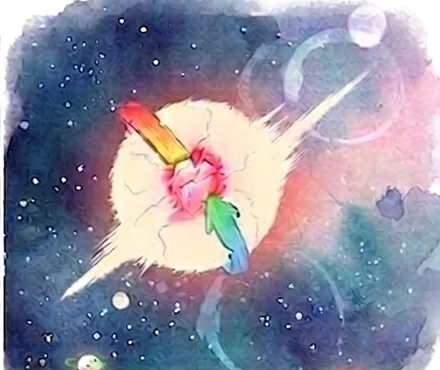
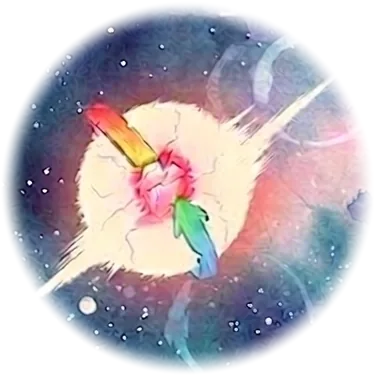
Round the rank badge back into hero.svg's rings
Rectangles among the concentric rings looked pasted on. The rim is now
feathered to a disc on a 3t^2-2t^3 curve rather than cut, so the wash still
dissolves instead of being stamped — the paper keying stays, and the two
passes together keep both the circular silhouette and the painted edge.

diff --git a/app/assets/css/omnia.css b/app/assets/css/omnia.css
@@ -264,22 +264,21 @@ button, .rail__link, .tabbar__link, .routine-card, .cal__day {
      read; the ceiling stops it outgrowing the banner on a tall window.
      Width follows the image, because these are irregular washes and forcing
      a common aspect ratio would visibly squash them. */
-  height: clamp(104px, 86%, 232px);
+  height: clamp(104px, 84%, 224px);
   /* Explicit, not shrink-to-fit. An absolutely positioned box with `width:
      auto` and only `left` set is clamped to the space remaining on that side
      — 25% of the banner — which is narrower than the artwork and leaves the
-     image overflowing its own button. The six washes differ in ratio by under
-     a percent, so one value covers them all and object-fit absorbs the rest. */
-  aspect-ratio: 440 / 371;
+     image overflowing its own button. */
+  aspect-ratio: 1;
   width: auto;
   padding: 0;
   border: 0;
   background: none;
-  border-radius: 12px;
+  border-radius: 50%;
   cursor: pointer;
   line-height: 0;
 }
-.rank__art { width: 100%; height: 100%; display: block; object-fit: contain; }
+.rank__art { width: 100%; height: 100%; display: block; }
 
 .rank:focus-visible {
   outline: 2px solid var(--color-primary);

diff --git a/app/index.html b/app/index.html
@@ -63,7 +63,7 @@
            finished, minor climbs by one every time a prompt changes something.
            See CLAUDE.md → Versioning; this element is the only place it lives. -->
       <p class="type-label">Daily core · 10 minutes
-        <span class="site-head__version" id="version">· v7.09</span>
+        <span class="site-head__version" id="version">· v7.10</span>
       </p>
       <button id="theme-toggle" class="theme-toggle" type="button"
               aria-label="Switch between light and dark">
@@ -82,7 +82,7 @@
              masthead should look as it always did, not show a stuck B. -->
         <button class="rank" id="rank" type="button" aria-expanded="false" hidden>
           <img class="rank__art" id="rank-art" src="assets/img/streak/b.webp"
-               alt="" width="440" height="372" decoding="async">
+               alt="" width="376" height="376" decoding="async">
         </button>
       </div>
       <p class="rank__detail" id="rank-detail" hidden></p>

diff --git a/tools/slice_streak_icons.py b/tools/slice_streak_icons.py
@@ -50,9 +50,15 @@ NEUTRAL_LO, NEUTRAL_HI = 10, 46
 #: full paper so the fill can travel through the soft edge of a wash.
 REACH = 70
 
-#: Longest edge of the written icon. Downscale only — the tiles are about
-#: 447px wide and upscaling a watercolour buys nothing but bytes.
-LONG_EDGE = 440
+#: Where the circular falloff begins, as a fraction of the radius. Everything
+#: inside is untouched; from here out to the rim the wash fades to nothing.
+#: A hard circle would stamp the watercolour flat, and no circle at all left
+#: the planets sitting as rectangles among hero.svg's concentric rings.
+FADE_FROM = 0.86
+
+#: Side of the written icon. Square, because the result is a disc. Downscale
+#: only — the tiles are about 376px tall and upscaling a wash buys only bytes.
+SIZE = 376
 QUALITY = 82
 
 
@@ -137,17 +143,43 @@ def cutout(img: Image.Image) -> Image.Image:
     out = rgb.convert("RGBA")
     out.putalpha(alpha)
 
-    # Crop to the paint. The tiles carry uneven margins of blank sheet, and
-    # keeping them would make one planet float higher in the banner than the
-    # next for no reason anybody could see.
-    box = out.getbbox()
-    if box:
-        out = out.crop(box)
-
-    # Fit inside a box rather than forcing a square: these are irregular
-    # washes, and squashing them to a common aspect ratio would be visible.
-    out.thumbnail((LONG_EDGE, LONG_EDGE), Image.LANCZOS)
+    # Centre square, then the disc. The planets are painted near the middle of
+    # each tile, so squaring off the wider sides costs only background wash.
+    side = min(width, height)
+    left, top = (width - side) // 2, (height - side) // 2
+    out = out.crop((left, top, left + side, top + side))
+    out = out.resize((SIZE, SIZE), Image.LANCZOS)
+    out.putalpha(feather(out.getchannel("A")))
     return out
+
+
+def feather(alpha: Image.Image) -> Image.Image:
+    """Fade the alpha to nothing around the rim, leaving the middle alone.
+
+    The result reads as a circle — which is what puts it at home inside
+    hero.svg's rings — without the hard cut a plain mask would make. Smoothed
+    with the usual 3t^2-2t^3 curve rather than a straight line, because a
+    linear ramp leaves a visible ring where the falloff starts.
+    """
+    size = alpha.size[0]
+    radius = size / 2
+    span = 1.0 - FADE_FROM
+    px = alpha.load()
+
+    for y in range(size):
+        dy = (y + 0.5) - radius
+        for x in range(size):
+            dx = (x + 0.5) - radius
+            distance = (dx * dx + dy * dy) ** 0.5 / radius
+            if distance <= FADE_FROM:
+                continue
+            if distance >= 1.0:
+                px[x, y] = 0
+                continue
+            t = (distance - FADE_FROM) / span
+            px[x, y] = int(px[x, y] * (1.0 - t * t * (3.0 - 2.0 * t)))
+
+    return alpha
 
 
 def build() -> None:
@@ -177,15 +209,15 @@ def check() -> None:
             problems.append(f"missing {path.relative_to(ROOT)}")
             continue
         with Image.open(path) as img:
-            if max(img.size) > LONG_EDGE:
+            if img.size != (SIZE, SIZE):
                 problems.append(
-                    f"{path.relative_to(ROOT)} is {img.size}; its long edge "
-                    f"must not exceed {LONG_EDGE}"
+                    f"{path.relative_to(ROOT)} is {img.size}, expected "
+                    f"({SIZE}, {SIZE})"
                 )
-            if img.getbbox() != (0, 0, *img.size):
+            elif img.getchannel("A").getextrema()[0] != 0:
                 problems.append(
-                    f"{path.relative_to(ROOT)} has transparent margins; it "
-                    f"was not cropped to the paint"
+                    f"{path.relative_to(ROOT)} has no fully transparent "
+                    f"pixels; the corners were not faded"
                 )
             if img.mode != "RGBA":
                 problems.append(
@@ -197,7 +229,7 @@ def check() -> None:
         for problem in problems:
             print(problem, file=sys.stderr)
         sys.exit(1)
-    print(f"all {len(RANK_BY_TILE)} icons present, long edge {LONG_EDGE}, RGBA")
+    print(f"all {len(RANK_BY_TILE)} icons present at {SIZE}x{SIZE}, faded RGBA")
 
 
 def main() -> None:

diff --git a/docs/superpowers/specs/2026-08-07-consistency-rank-badge-design.md b/docs/superpowers/specs/2026-08-07-consistency-rank-badge-design.md
@@ -81,23 +81,31 @@ Follows `build_catalog.py`: run by hand, output committed, no runtime Python.
 - Splits on an even 3×2 grid — 455×384 per tile. Gutters were measured at
   x≈456 and x≈915, y≈383, so an even split is correct; trim **4 px** per edge to
   drop the seam.
-- Keys the paper background to transparency, crops to the remaining paint, and
-  writes WebP at quality 82 to `app/assets/img/streak/`, named by rank. Long
-  edge 440; height varies, because the washes do.
+- Keys the paper background to transparency, squares off the tile, and feathers
+  the rim into a disc. Writes 376×376 WebP at quality 82 to
+  `app/assets/img/streak/`, named by rank.
 
-**Paper keyed out, not a circular mask.** *(Revised after the first build — the
-original spec called for a circle.)* The tiles are watercolour on white paper,
-and a white square on the cream ground reads as a patch of missing page. A
-circle solves that but costs the best thing about the artwork: the painted edge
-is a fade, and a hard mask clips it into a rubber stamp.
+**A keyed, feathered disc — neither a plain circular mask nor a rectangle.**
+*(Settled after two revisions. The first build used a hard circle; the second
+dropped the circle entirely to expose the painted edges; this keeps both.)*
 
-Instead, `paperness` scores each pixel on being *both* bright and near-neutral —
-both conditions are needed, since the pale planets and the white stars are
-bright too. A flood fill inwards from the tile border marks the background;
-enclosed highlights are never reached, so they survive. Alpha is then a **ramp**
-over paperness rather than a threshold, so where the wash thins out the pixels
-go correspondingly transparent and the edge dissolves into the cream exactly as
-it does into the paper.
+Three requirements pull against each other, and each pass answers one:
+
+1. *The tiles are watercolour on white paper.* A white square on the cream
+   ground reads as a patch of missing page. So `paperness` scores each pixel on
+   being **both** bright and near-neutral — both conditions are needed, since
+   the pale planets and the white stars are bright too — and a flood fill
+   inwards from the tile border marks the background. Enclosed highlights are
+   never reached, so they survive. Alpha is a **ramp** over paperness rather
+   than a threshold, so where the wash thins out the pixels go correspondingly
+   transparent.
+2. *`hero.svg` draws concentric rings at this exact spot.* A rectangle sitting
+   among them looks pasted on, so the result is squared and masked to a circle,
+   concentric with the rings.
+3. *A hard circle stamps the watercolour flat.* So the mask is a **feather**,
+   not a cut: alpha is untouched inside 86% of the radius and falls to zero at
+   the rim on a `3t²-2t³` curve. A linear ramp leaves a visible ring where the
+   falloff begins; the smoothed curve does not.
 
 **WebP, not PNG.** Measured on the real artwork: 20 KB per icon versus 284 KB as
 PNG, for the same 400 px. All six total 121 KB. WebP with alpha is Safari 14+.
@@ -190,10 +198,10 @@ transform: translate(-50%, -50%)` pins the icon to the circle at every width, wi
 no per-breakpoint math and no JS measurement.
 
 **Size.** *(Revised: the first build sized off the banner's width and was too
-small to show the artwork off.)* `height: clamp(104px, 86%, 232px)` with
-`aspect-ratio: 440 / 371`. Measuring against the banner's **height** keeps the
-wash filling the same share of the artwork it sits in — about 217 px tall on
-desktop, reaching roughly the middle ring, and 105 px on a phone.
+small to show the artwork off.)* `height: clamp(104px, 84%, 224px)` with
+`aspect-ratio: 1`. Measuring against the banner's **height** keeps the disc
+filling the same share of the artwork it sits in — about 212 px across on
+desktop, sitting between the inner and middle rings, and 104 px on a phone.
 
 The aspect ratio must be explicit. An absolutely positioned box with `width:
 auto` and only `left` set is shrink-to-fit, and shrink-to-fit clamps it to the

diff --git a/CLAUDE.md b/CLAUDE.md
@@ -356,10 +356,11 @@ pip install -r requirements.txt
 python tools/slice_streak_icons.py           # writes app/assets/img/streak/
 python tools/slice_streak_icons.py --check   # verify the committed output
 ```
-The script keys the paper out to transparency by flood-filling inwards from the
-tile border, so each wash keeps its soft painted edge and dissolves into the
-cream. It is a *ramp*, not a threshold — thresholding gives every planet a hard
-cut where the paint fades out.
+Two passes, and both matter. The paper is keyed out by flood-filling inwards
+from the tile border on a *ramp*, not a threshold — thresholding gives every
+planet a hard cut where the paint fades out. Then the rim is feathered to a
+disc, because `hero.svg` draws concentric rings there and a rectangle among
+them looks pasted on. The feather is what keeps the disc from looking stamped.
 
 **Add a routine** — edit `app/assets/data/routines.json`. Exercise ids must exist in
 `exercises.json`; the build script prints every valid id with `--list`.

diff --git a/ROADMAP.md b/ROADMAP.md
@@ -387,8 +387,9 @@ user.
 - [x] `prefers-reduced-motion` respected: the rank still changes, motion does not
 - [x] It can be turned off, and turning it off leaves the streak numbers intact.
       Hiding is in the badge's own reveal; the way back is on the calendar.
-- [x] The paper is keyed out to transparency, so each wash dissolves into the
-      cream ground instead of sitting on it as a pasted rectangle.
+- [x] The paper is keyed out to transparency and the rim feathered to a disc,
+      so each planet sits concentric with hero.svg's rings and dissolves into
+      the cream instead of being stamped onto it.
 
 **Note for Phase 13:** streak *calculation* lands here, not there. What stays in
 Social & streaks is the social half — friends, teams, sharing.
